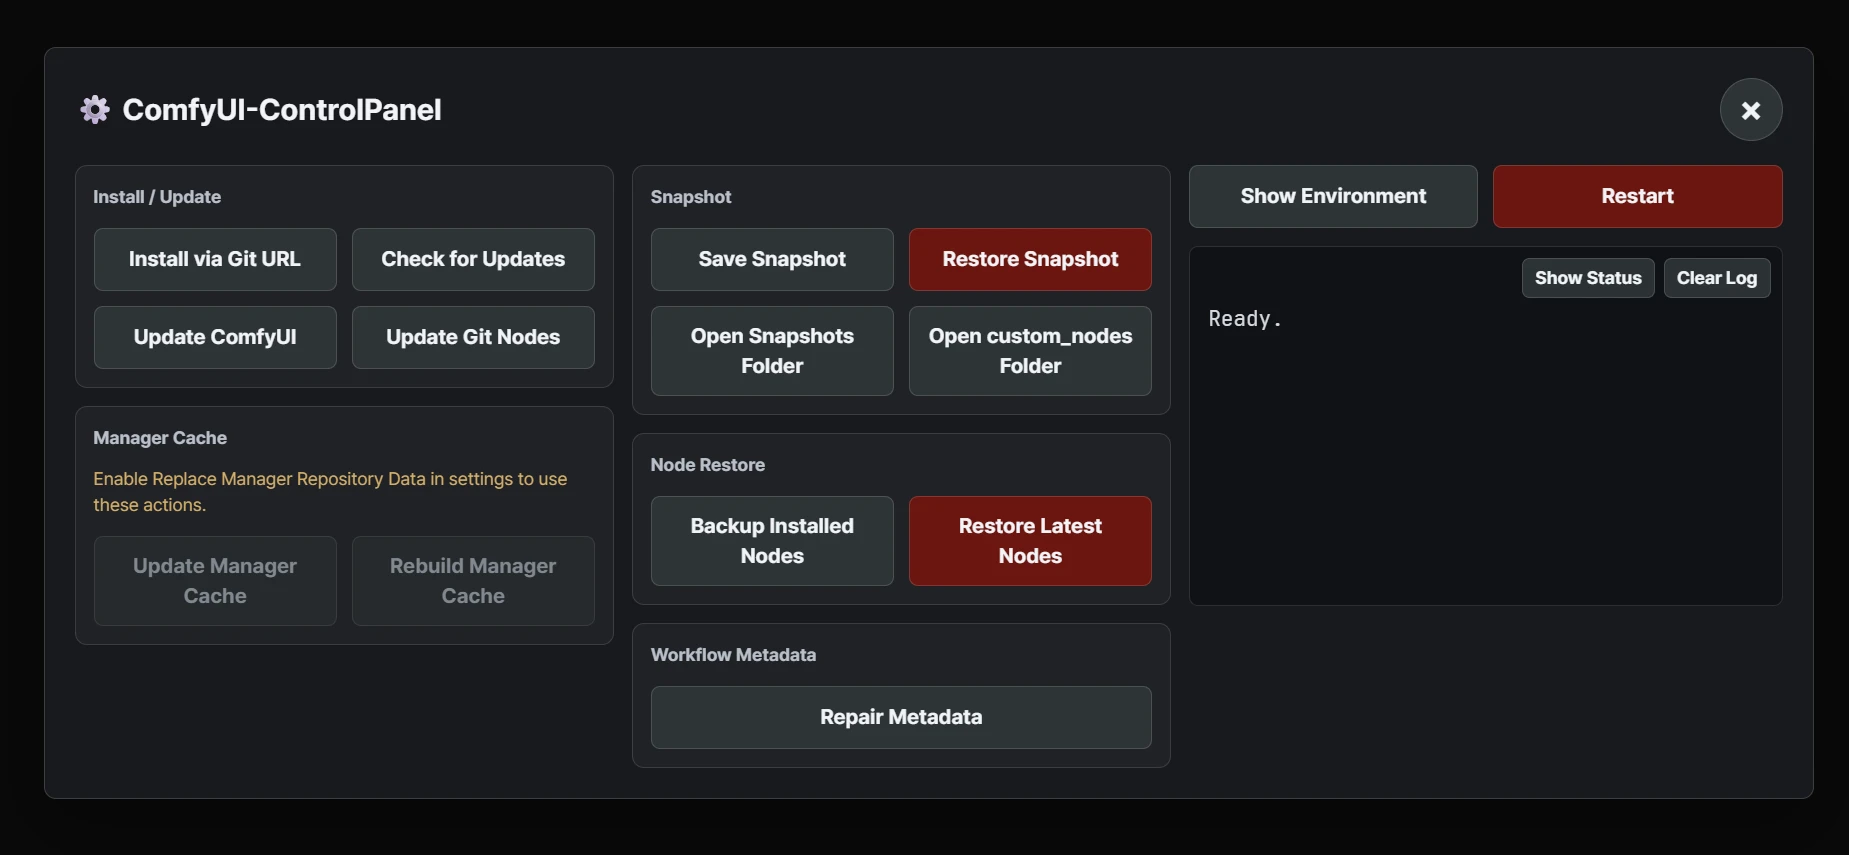
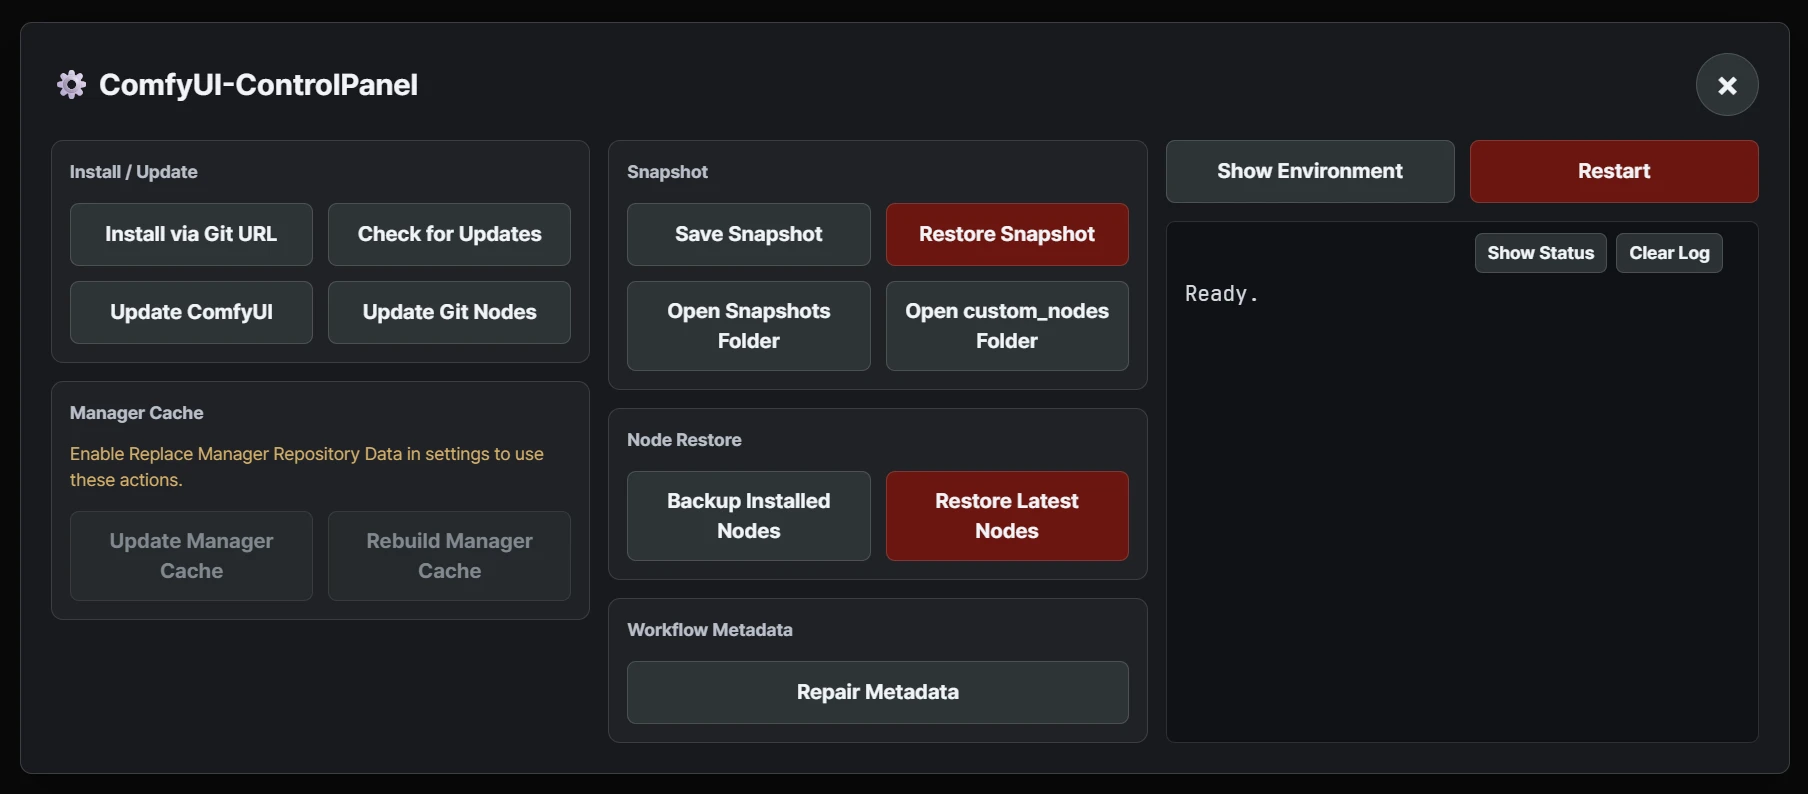
Feat: expand size of log panel

diff --git a/frontend/src/styles.css b/frontend/src/styles.css
@@ -52,15 +52,22 @@
   margin: 0;
 }
 
+.cp-panel-column-status {
+  min-height: 0;
+  overflow: hidden;
+  contain: size;
+}
+
 .cp-panel-column-status .cp-log-wrap {
   min-height: 0;
   flex: 1;
+  overflow: hidden;
 }
 
 .cp-panel-column-status .cp-log {
   box-sizing: border-box;
   height: 100%;
-  max-height: 240px;
+  max-height: none;
 }
 
 .cp-modal {
@@ -351,6 +358,11 @@
 
   .cp-panel-content {
     grid-template-columns: 1fr;
+  }
+
+  .cp-panel-column-status {
+    overflow: visible;
+    contain: none;
   }
 
   .cp-panel-column-status .cp-log {
